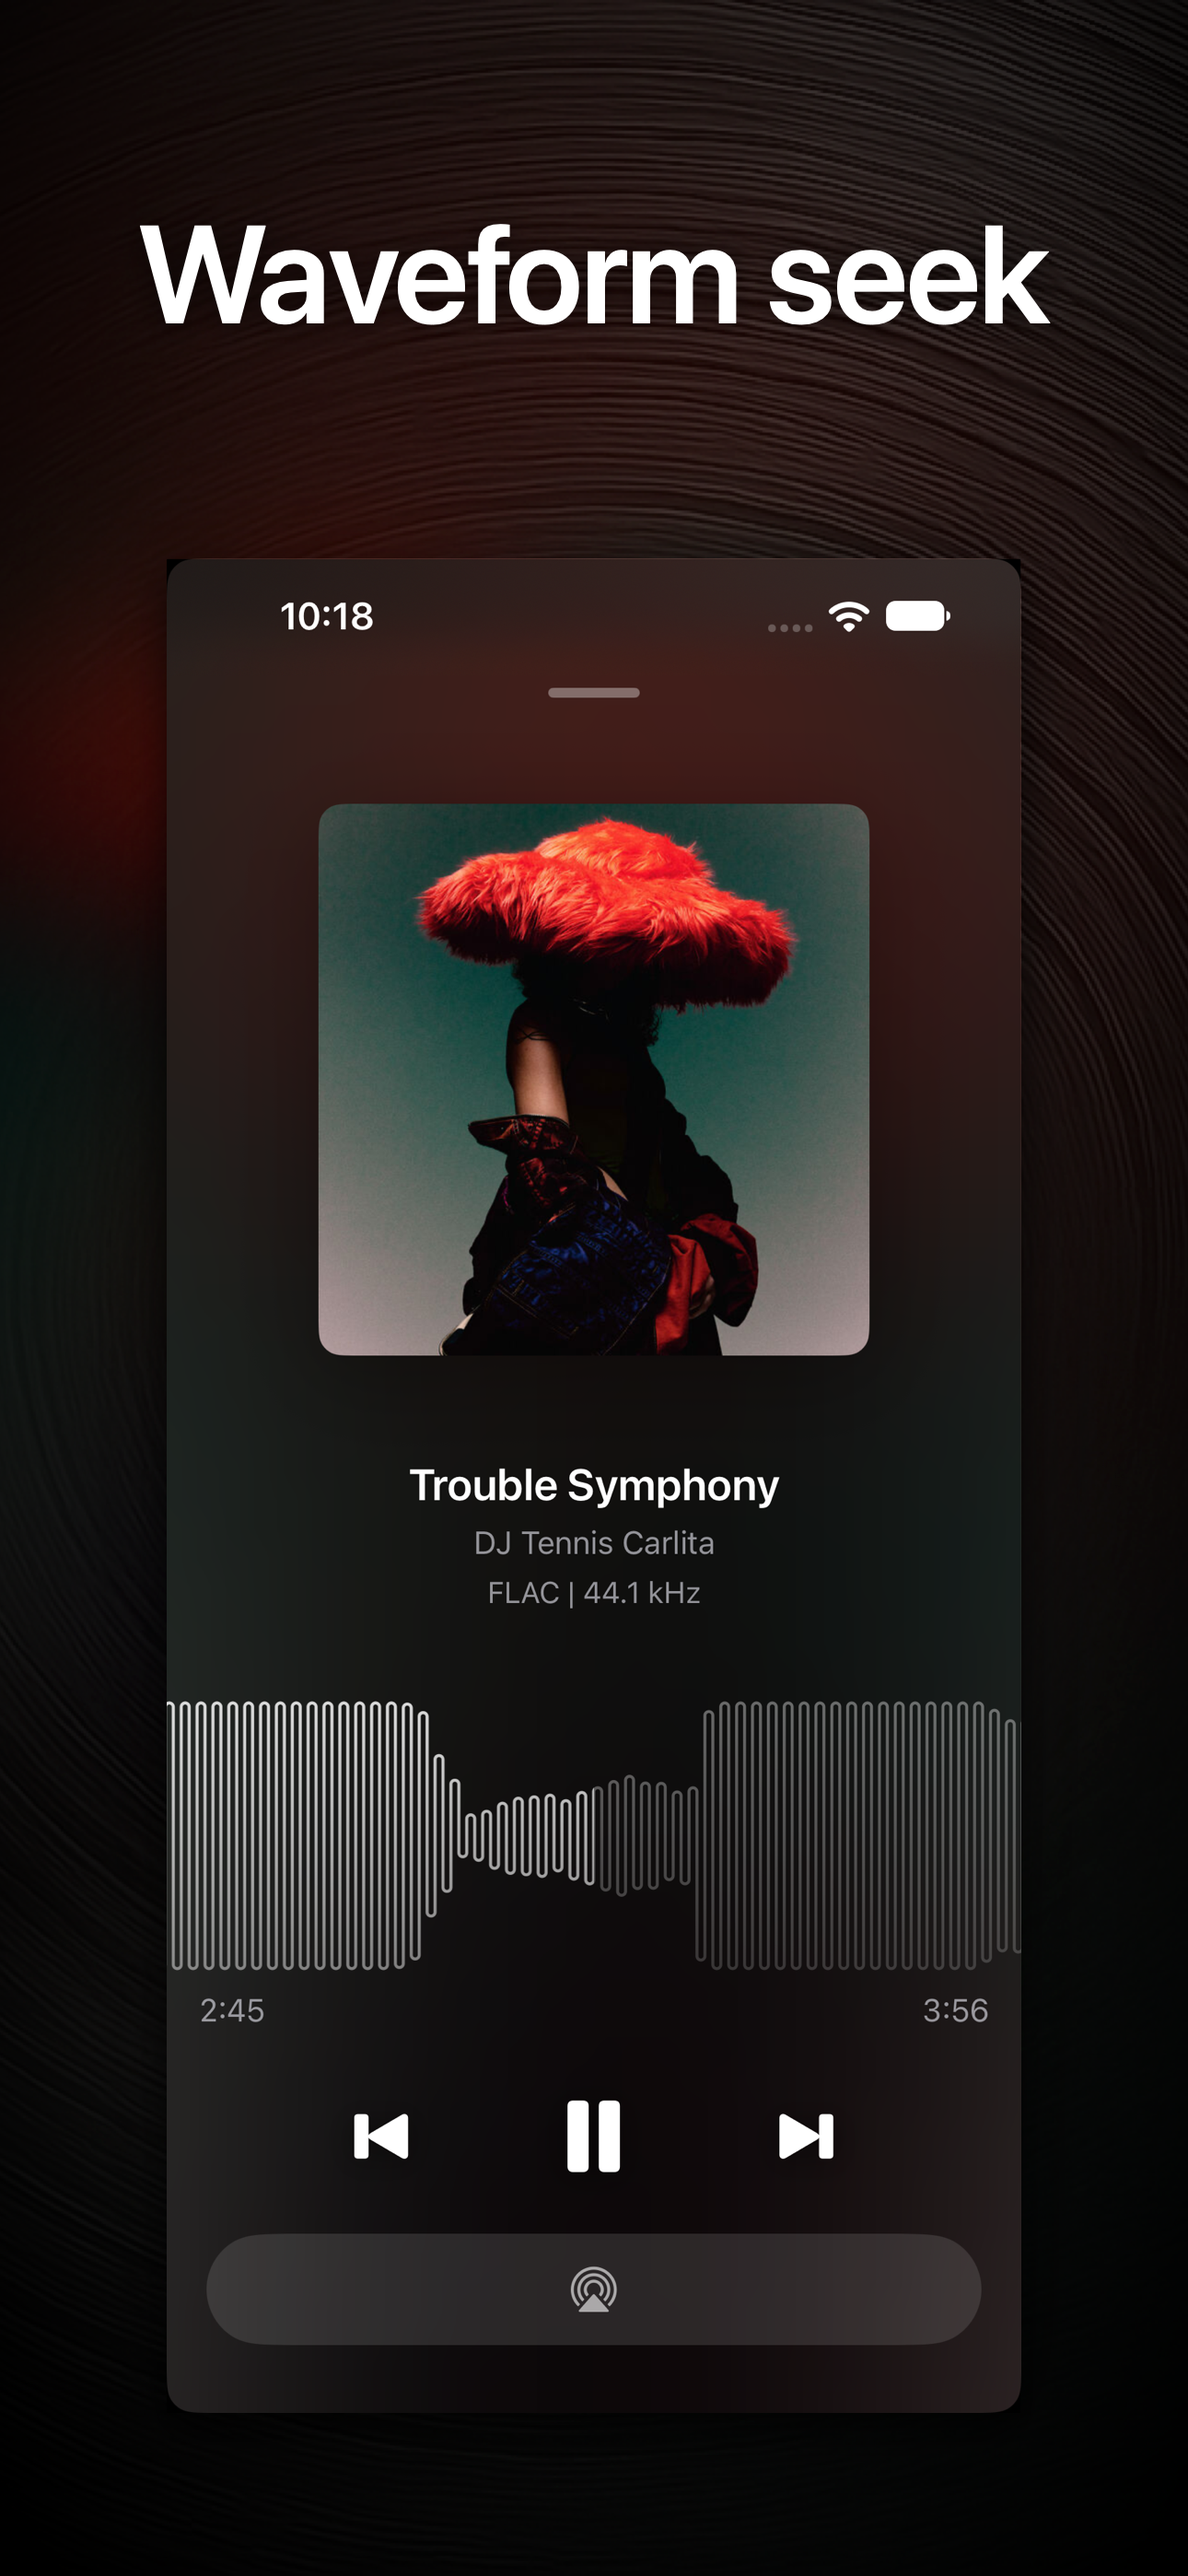
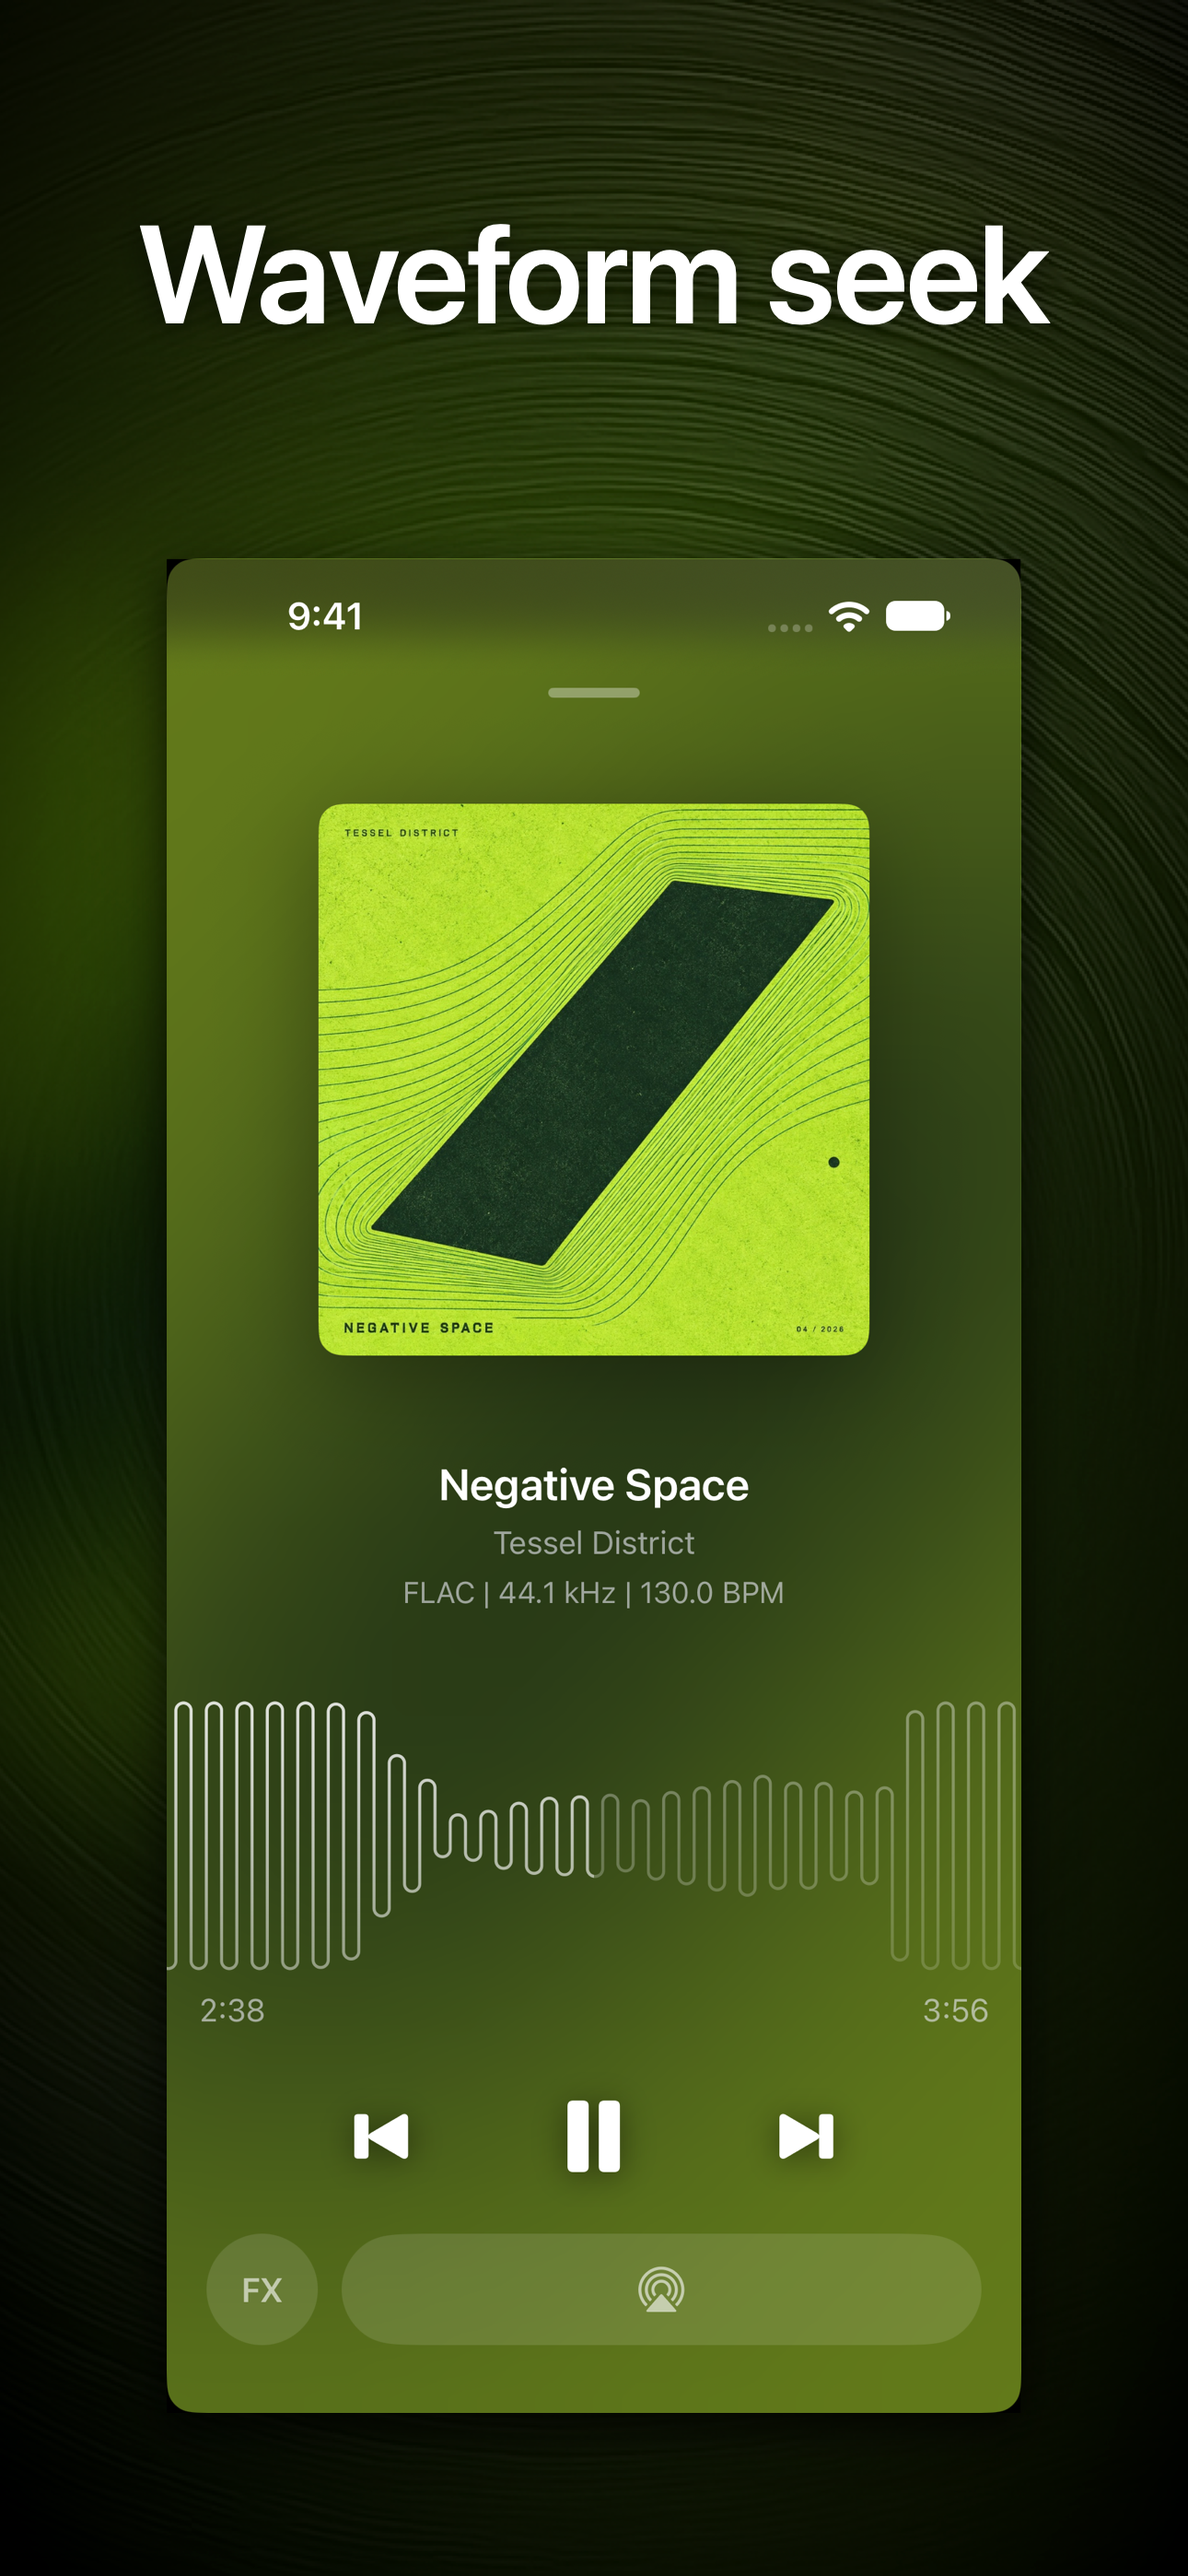
Refresh iOS screenshots with original cover artwork

diff --git a/Assets/Web/index.html b/Assets/Web/index.html
@@ -192,8 +192,8 @@
   </div>
   <figure class="shot shot-phone">
     <picture>
-      <source srcset="img/ios.webp?v=8f38e5d679" type="image/webp">
-      <img src="img/ios.png?v=ef6acc21b5" width="574" height="1228" loading="lazy" alt="Vibe on iPhone: album art above the track title, a full-width waveform, and transport controls.">
+      <source srcset="img/ios.webp?v=1e57c9a07f" type="image/webp">
+      <img src="img/ios.png?v=22f1dae7f7" width="574" height="1228" loading="lazy" alt="Vibe on iPhone: album art above the track title, a full-width waveform, and transport controls.">
     </picture>
   </figure>
 </section>

diff --git a/Tests/iOSDriver/VibeiOSDriverTests.m b/Tests/iOSDriver/VibeiOSDriverTests.m
@@ -110,6 +110,30 @@ static void DisableQuiescenceWaits(void) {
     NSString *verb = tokens.firstObject ?: @"";
     double a1 = 0, a2 = 0, a3 = 0, a4 = 0;
 
+    if ([verb isEqualToString:@"springboard"]) {
+        if (tokens.count < 2 || ![@[@"tap", @"press", @"drag", @"type", @"tap_label", @"tree"] containsObject:tokens[1]]) {
+            return JSONString(@{@"error": @"springboard needs: tap|press|drag|type|tap_label|tree and arguments"});
+        }
+        XCUIApplication *player = _app;
+        _app = [[XCUIApplication alloc] initWithBundleIdentifier:@"com.apple.springboard"];
+        @try {
+            return [self performCommand:[tokens subarrayWithRange:NSMakeRange(1, tokens.count - 1)] quit:quit];
+        }
+        @finally {
+            _app = player;
+        }
+    }
+
+    if ([verb isEqualToString:@"tree"]) {
+        return JSONString(@{@"tree": _app.debugDescription});
+    }
+    if ([verb isEqualToString:@"tap_label"]) {
+        if (tokens.count != 2) return JSONString(@{@"error": @"tap_label needs: label"});
+        XCUIElement *element = [[_app descendantsMatchingType:XCUIElementTypeAny] matchingIdentifier:tokens[1]].firstMatch;
+        if (!element.exists) return JSONString(@{@"error": @"label not found"});
+        [element tap];
+        return JSONString(@{@"ok": @YES});
+    }
     if ([verb isEqualToString:@"quit"]) {
         *quit = YES;
         return JSONString(@{@"ok": @YES, @"quit": @YES});
@@ -220,8 +244,8 @@ static void DisableQuiescenceWaits(void) {
     return JSONString(@{@"error": [NSString stringWithFormat:
             @"unknown command '%@'. Commands: tap <x> <y>, double_tap <x> <y>, "
             @"press <x> <y> <seconds>, drag <x1> <y1> <x2> <y2> [seconds], "
-            @"pinch <scale> <velocity>, type <text>, "
-            @"rotate portrait|left|right, home, quit", verb]});
+            @"pinch <scale> <velocity>, type <text>, tap_label <label>, tree, "
+            @"rotate portrait|left|right, home, springboard <gesture> [args], quit", verb]});
 }
 
 // Returns YES when the command asked the session to end.

diff --git a/.claude/skills/vibe-debug/references/ios-verbs.md b/.claude/skills/vibe-debug/references/ios-verbs.md
@@ -59,6 +59,7 @@ xcrun simctl io "$UDID" screenshot shot.png                                   # 
 `drive-ios.sh` executes gestures through the resident `VibeiOSDriver` XCUITest (`Tests/iOSDriver/`, not part of `VibeTests`) over the same file protocol — the only sanctioned touch-synthesis path on iOS. Its header comment lists every gesture verb and its arguments.
 
 - **Latency**: ~1s per gesture at steady state. The FIRST gesture after `start` or an app relaunch pays the accessibility attach, which can run tens of seconds — send a throwaway `tap` on dead space as a warm-up. The runner disables XCTest's per-event quiescence waits (a playing app never idles under Vibe's display link; without this every gesture costs ~2 minutes); that reaches XCTest internals, harness-only, and degrades to slow-but-working if an Xcode update renames them (`Tests/iOSDriver/VibeiOSDriverTests.m`).
+- `springboard tap|press|drag|type|tap_label|tree …` targets the Home screen and widget gallery using the same gesture arguments; ordinary gestures return to Vibe. `tree` reads the accessibility hierarchy; `tap_label` activates an exact label or identifier (quote labels containing spaces). Start with `VIBE_SIGN_SIM=1` for widget captures so the driver build preserves the app-group entitlements.
 - Run `start` before `launch-ios.sh` so the app it launches is the one the driver attached to; either order installs correctly, this one skips a relaunch. If the app is dead, the next gesture relaunches it with the silencing flags.
 - One session per DEVICE: `start` kills only this device's previous driver.
 - `pinch scale velocity` is the one element-targeted verb — XCUITest has no coordinate multi-touch, so it finds the scrubber by accessibilityIdentifier and needs the card expanded.

diff --git a/Assets/app-store/README.md b/Assets/app-store/README.md
@@ -91,3 +91,27 @@ caption sits on one line.
 - `make appstore-upload-metadata` uploads copy and screenshots to App Store Connect
   (`scripts/appstore-upload-metadata.sh`, the Swift tool in
   `scripts/asc-upload/`).
+
+## iOS screenshot music
+
+The iOS captures use fictional artist/title metadata and the four new sleeve
+designs in `demo-music/artwork/`. `demo-music/catalog.json` maps those names to
+the local source recordings; `artwork-prompts.json` records the cover briefs.
+The audio is copied from the original FLAC files and kept unchanged. Only the
+tags and embedded artwork are replaced.
+
+`demo-music/tracks/` is local and gitignored; the recordings are not distributed
+with the screenshot assets.
+The originals in the music library are untouched. Decoded PCM SHA-256 hashes
+of all twelve copies match their sources. The player and widget use **Soft
+Relay** (the audio from **Memorandum**); the seek shot uses **Negative Space**
+(the audio from **Trouble Symphony**). macOS captures keep their existing music.
+
+Seed the copied FLACs with `launch-ios.sh` and open the seeded Music directory
+through `debug-ios.sh`. Capture at 1290×2796 (iPhone 15 Pro Max) and 2048×2732
+(iPad Pro 12.9-inch), with the status bar set to 9:41. Use the signed simulator
+build for the widget, add it through the widget gallery, and check
+`dump_state.widget.placed` before capturing. `drive-ios.sh springboard …`
+drives that gallery without returning to the player between touches. Rebuild
+all iOS locales with `scripts/appstore-generate-store-screenshots.sh --all
+--platform ios` after replacing the eight source captures.
